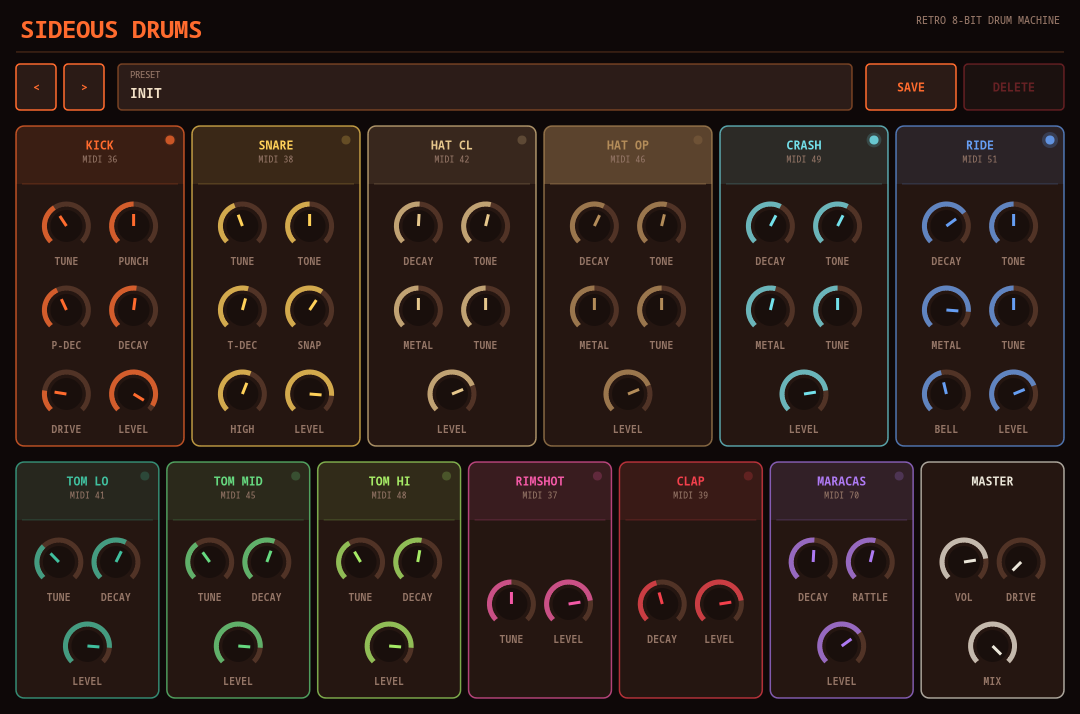
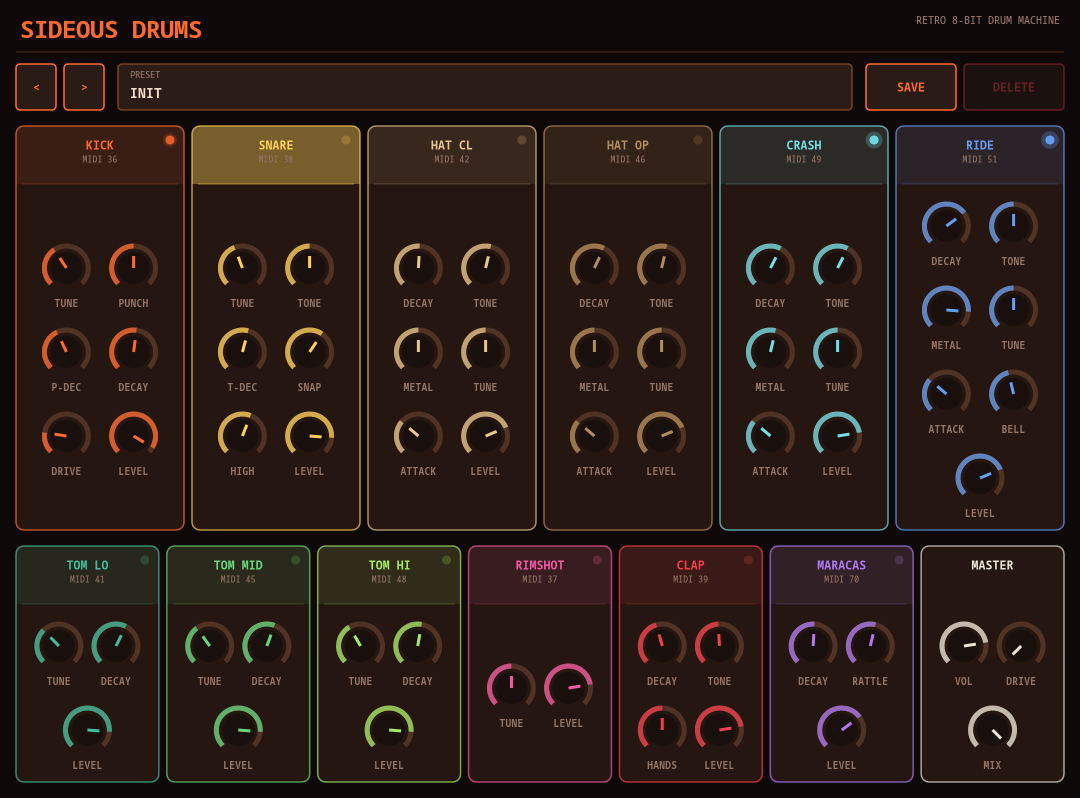
Update Sideous Drums screenshot/feature list, mention Sideous PWM LFO
Sideous Drums: new screenshot reflects the taller layout (Attack knob
pushed Crash/Ride to 7/6 knobs) with LED meters and a pressed trigger pad
visible; feature list now covers stereo cymbals, ring-mod density, shimmer,
Attack/click transient, Clap Tone/Hands, and the hand-tuned presets.

Sideous: LFO destination list now mentions pulse width alongside
pitch/cutoff/amplitude.

diff --git a/index.html b/index.html
@@ -260,7 +260,7 @@
       <li>Saw / pulse (variable width) / triangle oscillator plus a sub-oscillator (±1/±2 octaves)</li>
       <li>Switchable 12/24dB lowpass/highpass filter plus a simplified Moog-style ladder, with resonance and drive</li>
       <li>Dual shapeable ADSR (amp + filter cutoff) with a live curve-graph visualization</li>
-      <li>Tempo-synced LFO (1/1 to 1/64, dotted/triplet) and a 4-pattern arpeggiator</li>
+      <li>Tempo-synced LFO (1/1 to 1/64, dotted/triplet) targeting pitch, filter cutoff, amplitude, or pulse width, and a 4-pattern arpeggiator</li>
       <li>16-voice polyphony, or mono with portamento and legato control</li>
       <li>Knobs show live values while being automated, not just while dragging</li>
       <li>Built-in file-based preset browser (Prev/Next, rename, save/delete) with 11 factory presets, works in every format including the JACK standalone</li>
@@ -284,15 +284,18 @@
     <ul class="features">
       <li>Fixed 12-voice kit (kick, snare, hats, 3 toms, crash, ride, rimshot, clap, maracas), GM-ish MIDI map</li>
       <li>Kick/toms use a pitch-envelope "sweep" trick; snare layers pitched tone over independently-decaying noise</li>
-      <li>6-oscillator FM metallic stack for hats/crash/ride, with Metal blend and a Tune knob that transposes the whole partial set like a real analog cymbal "tune" pot</li>
+      <li>6-oscillator FM metallic stack for hats/crash/ride, ring-modulated in pairs for extra inharmonic density, with Metal blend and a Tune knob that transposes the whole partial set like a real analog cymbal "tune" pot</li>
+      <li>Hats/crash/ride are genuinely stereo (detuned oscillator/filter/noise chains per channel) with a slow always-on shimmer LFO so the decay tail keeps moving instead of sitting on static noise</li>
       <li>Ride adds a tighter, more harmonic partial cluster plus a dedicated pitched Bell "ping" layer so it's not just Crash with a longer decay</li>
+      <li>Attack knob plus a fixed broadband strike-transient "click" on every cymbal hit — a band-limited wash fading in, however fast, still can't fake a real stick strike</li>
+      <li>Clap's Tone sweeps its bandpass center, Hands (1-7) sets how many retriggered pulses make up one hit — 1 is a single clean hit, higher spreads it into more of a "crowd" clap</li>
       <li>Maracas is a resonant-bandpass multi-grain "rattle" (Rattle knob) instead of a plain noise burst — reads as a shaker, not another hi-hat</li>
-      <li>Closed/open hi-hat choke group, classic 3-burst "flam" handclap</li>
+      <li>Closed/open hi-hat choke group</li>
       <li>Click-to-audition trigger pads and live per-voice LED meters built into each column header — hear a sound change without touching a MIDI keyboard</li>
       <li>Host-visible note names: Ardour reads them automatically via LV2 MIDNAM, VST3 hosts via IUnitInfo pitch names</li>
       <li>Two builds: single stereo mix, or a 13-bus multi-out version for per-drum routing/sends</li>
       <li>Master Drive/Mix stage as a character control, not just a limiter</li>
-      <li>Built-in file-based preset browser with 10 factory presets (808/909, Trap, Lo-Fi Chip, Industrial, and more), works in every format including the JACK standalone</li>
+      <li>Built-in file-based preset browser with 10 factory presets (808/909, Trap, Lo-Fi Chip, Industrial, and more), each hand-tuned to carry the newer cymbal/clap/maracas controls too — works in every format including the JACK standalone</li>
     </ul>
     <div class="plugin-actions">
       <a class="btn" href="https://github.com/marcin-koziol/Sideous-drums">↗ github.com/marcin-koziol/Sideous-drums</a>
